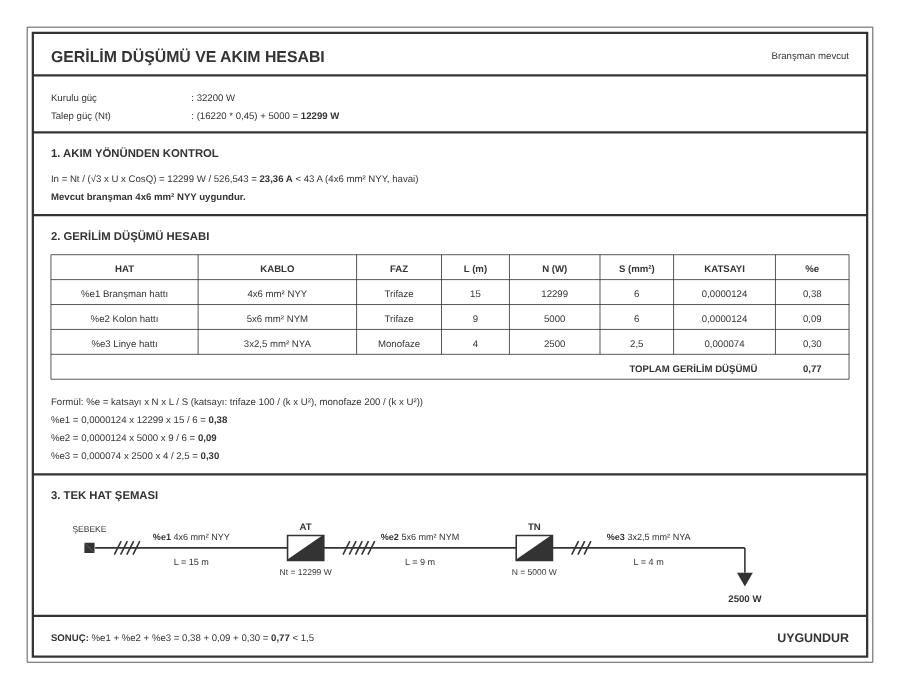
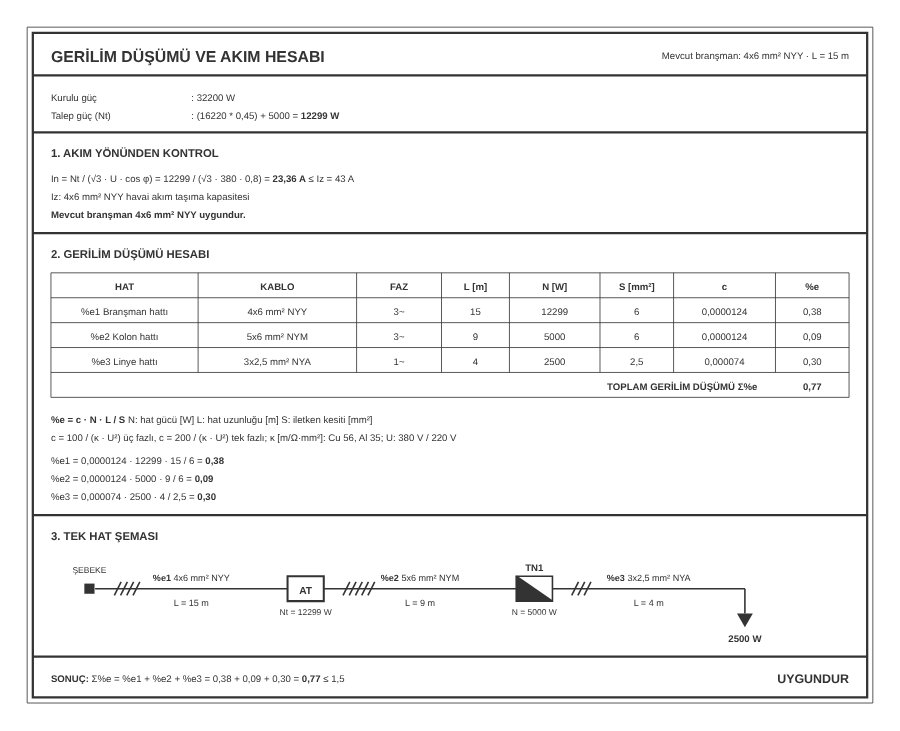
GERILIMDUSUMU: standart pano sembolleri ve teknik gösterim
AT sayaç panosu (kalın çerçeve, içinde AT), TN ışık tali dağıtım tablosu
(alt yarısı dolu). In = Nt / (√3 · U · cos φ) açık yazılıyor, Iz kaynağı belirtiliyor;
tabloda 3~/1~, [birim] başlıklar, c katsayısı; formül açıklaması κ ve U ile;
sağ üstte mevcut branşman kablosu.

Claude-Session: https://claude.ai/code/session_01EkCmJ9wXX1yVVr3vARr63G

Changed region(s): [[0.0311, 0.0304, 0.9644, 0.5478], [0.0311, 0.5478, 0.9644, 0.9739]]

diff --git a/araclar/ic-tesisat.html b/araclar/ic-tesisat.html
@@ -248,7 +248,7 @@ function hesapla() {
   $('bransmanKart').hidden = !mevcut;
   const faz = $('sfaz').querySelector('[aria-pressed="true"]').dataset.v;
   const U = ayar('u-' + faz), cosfi = ayar('cosfi'), limit = ayar('limit');
-  const kok = faz === '3' ? '√3 x ' : '';
+  const kok = faz === '3' ? '√3 · ' : '';
   const kurulu = islem($('kurulu').value);
   const Nt = islem($('talep').value);
   const talepIslemMi = isFinite(Nt) && !/^\s*[\d.,]+\s*$/.test($('talep').value);
@@ -269,11 +269,11 @@ function hesapla() {
     const ad = kabloAdi(tip, b.etiket, faz);
     akimUygun = Iz != null && In <= Iz;
     satirlarCikti.push('AKIM YÖNÜNDEN KONTROL');
-    satirlarCikti.push(`In = Nt / (${kok}U x CosQ) = ${tr(Nt, 0)} W / ${trSerbest(+bolen.toFixed(3))} = ${tr(In)} A ${akimUygun ? '<' : '>'} ${Iz ?? '-'} A`);
+    satirlarCikti.push(`In = Nt / (${kok}U · cos φ) = ${tr(Nt, 0)} W / ${trSerbest(+bolen.toFixed(3))} = ${tr(In)} A ${akimUygun ? '<' : '>'} ${Iz ?? '-'} A`);
     satirlarCikti.push(`MEVCUT BRANŞMAN ${ad} ${akimUygun ? 'UYGUNDUR.' : 'UYGUN DEĞİLDİR.'}`);
   } else {
     satirlarCikti.push('AKIM YOĞUNLUĞU HESABI');
-    satirlarCikti.push(`In = Nk / (${kok}U x CosQ) = ${talepIslemMi ? (/[+\-]/.test($('talep').value) && !/^\s*\(.*\)\s*$/.test($('talep').value) ? '(' + yazilanIslem($('talep').value) + ')' : yazilanIslem($('talep').value)) + ' / ' : tr(Nt, 0) + ' / '}${trSerbest(+bolen.toFixed(3))} = ${tr(In)} A`);
+    satirlarCikti.push(`In = Nk / (${kok}U · cos φ) = ${talepIslemMi ? (/[+\-]/.test($('talep').value) && !/^\s*\(.*\)\s*$/.test($('talep').value) ? '(' + yazilanIslem($('talep').value) + ')' : yazilanIslem($('talep').value)) + ' / ' : tr(Nt, 0) + ' / '}${trSerbest(+bolen.toFixed(3))} = ${tr(In)} A`);
     satirlarCikti.push('BAĞLANTI HATTI İLERİDE PROJELENDİRİLECEKTİR.');
   }
   satirlarCikti.push('', 'GERİLİM DÜŞÜMÜ HESABI', '');
@@ -300,8 +300,8 @@ function hesapla() {
     toplam += eY; adlar.push(`%e${no}`); degerler.push(tr(eY));
     if (h.hatNo != null) $('hb-' + h.hatNo).textContent = `%e${no} · ${h.isim.charAt(0) + h.isim.slice(1).toLocaleLowerCase('tr')} · ${h.kablo} · ${h.faz === '3' ? 'trifaze' : 'monofaze'}`;
     satirlarCikti.push(`${h.isim} (${h.kablo})${h.ad ? ': ' + h.ad : ''}`);
-    satirlarCikti.push(`%e${no} = ${trSerbest(c)} x ${h.nt ? 'Nt' : 'N'} x L / S`);
-    satirlarCikti.push(`%e${no} = ${trSerbest(c)} x ${tr(h.P, 0)} x ${trSerbest(h.L)} / ${trSerbest(h.S)}`);
+    satirlarCikti.push(`%e${no} = ${trSerbest(c)} · ${h.nt ? 'Nt' : 'N'} · L / S`);
+    satirlarCikti.push(`%e${no} = ${trSerbest(c)} · ${tr(h.P, 0)} · ${trSerbest(h.L)} / ${trSerbest(h.S)}`);
     satirlarCikti.push(`%e${no} = ${tr(eY)}`, '');
   });
   toplam = +toplam.toFixed(2);

diff --git a/autocad/test/onizleme.js b/autocad/test/onizleme.js
@@ -58,7 +58,7 @@ function svg(nesneler) {
   }
   for (const n of nesneler) {
     if (n.tip === 'LINE') parcalar.push(`<line x1="${X(n.x1)}" y1="${Y(n.y1)}" x2="${X(n.x2)}" y2="${Y(n.y2)}" stroke="${renk(n.renk)}" stroke-width="${Math.max(0.12, (n.kalinlik || 25) / 100)}"/>`);
-    else if (n.tip === 'LWPOLYLINE') parcalar.push(`<polygon points="${n.pts.map(p => `${X(p[0])},${Y(p[1])}`).join(' ')}" fill="none" stroke="${renk(n.renk)}" stroke-width="${Math.max(0.12, (n.kalinlik || 25) / 100)}"/>`);
+    else if (n.tip === 'LWPOLYLINE') parcalar.push(`<polygon points="${n.pts.map(p => `${X(p[0])},${Y(p[1])}`).join(' ')}" fill="none" stroke="${renk(n.renk)}" stroke-width="${n.genislik || Math.max(0.12, (n.kalinlik || 25) / 100)}"/>`);
     else if (n.tip === 'CIRCLE') parcalar.push(`<circle cx="${X(n.x)}" cy="${Y(n.y)}" r="${n.r}" fill="none" stroke="${renk(n.renk)}" stroke-width="0.25"/>`);
     else if (n.tip === 'MTEXT') {
       const satirlar = mtextSatirlari(n.yazi, renk(n.renk));

diff --git a/autocad/test/autolisp.js b/autocad/test/autolisp.js
@@ -254,7 +254,7 @@ const nesneYap = dxf => {
     ekle({ tip, x1: num(a[0]), y1: num(a[1]), x2: num(b[0]), y2: num(b[1]) });
   } else if (tip === 'LWPOLYLINE') {
     const pts = l.filter(x => !x.dot && x[0] === 10).map(x => [num(x[1]), num(x[2])]);
-    ekle({ tip, pts });
+    ekle({ tip, pts, genislik: grup(43) != null ? num(grup(43)) : null });
   } else if (tip === 'SOLID') {
     ekle({ tip, pts: [10, 11, 12, 13].map(k => grup(k)).map(p => [num(p[0]), num(p[1])]) });
   } else throw new LispError('entmake bilinmeyen tip ' + tip);
